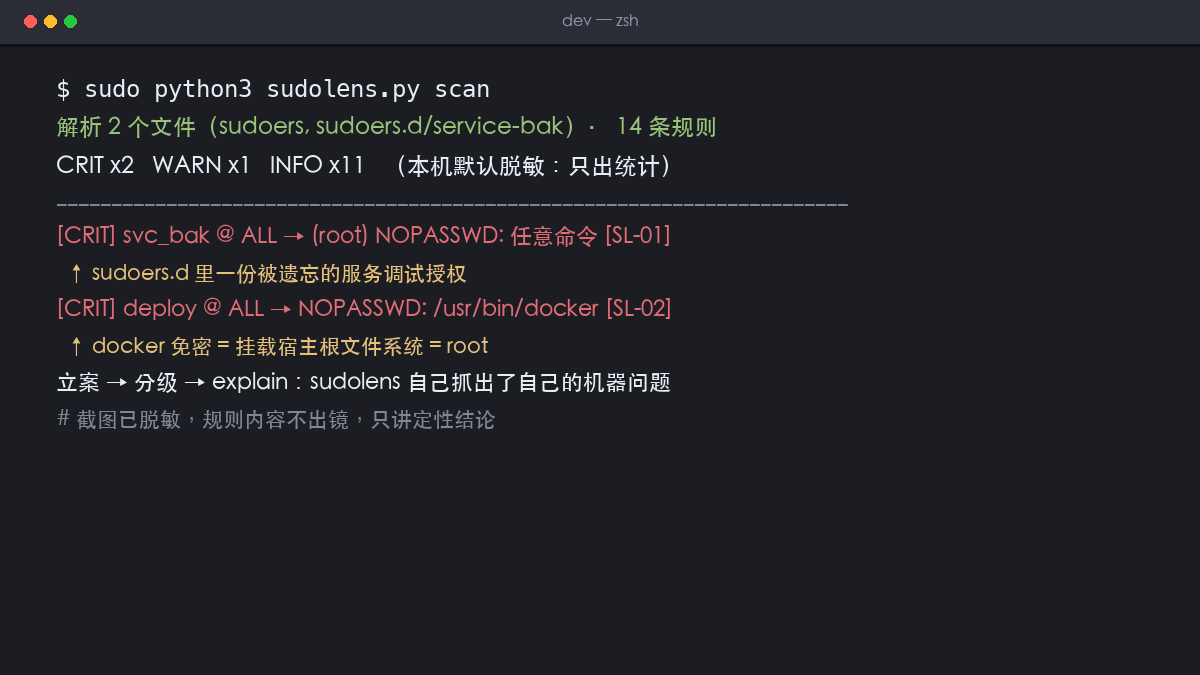
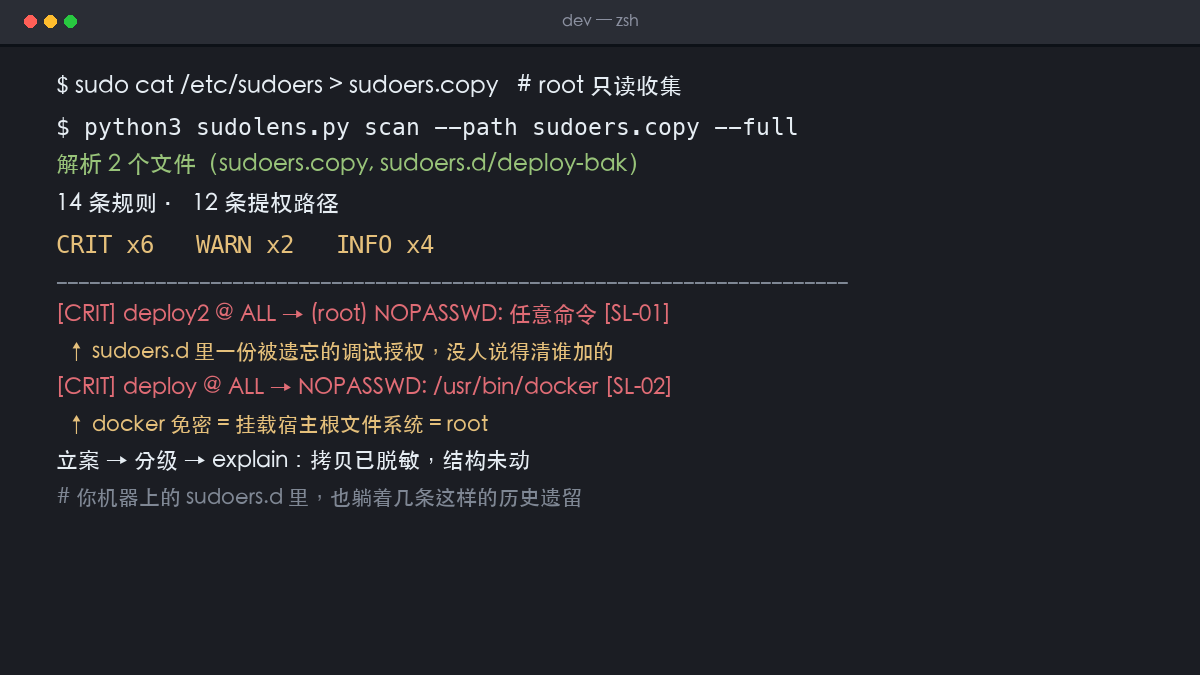
shots: align case figure with real collected-copy run

Changed region(s): [[0.0308, 0.0933, 0.6475, 0.7467]]

diff --git a/make_shots.py b/make_shots.py
@@ -104,18 +104,20 @@ shot("sl-shot-3-explain", [
     ("# 拿去给非技术同事看，一眼能懂谁身上有雷", GREY, 21, False),
 ])
 
-# 4. 本机立案实拍（脱敏：只出统计 + sudoers.d 一条线索定性）
+# 4. 本机立案实拍（真实 run：sudo cat 收集的 sudoers 拷贝，用户名已脱敏）
 shot("sl-shot-4-case", [
-    ("$ sudo python3 sudolens.py scan", WHITE, 24, True),
-    ("解析 2 个文件（sudoers, sudoers.d/service-bak）· 14 条规则", GREEN, 23, False),
-    ("CRIT x2   WARN x1   INFO x11   （本机默认脱敏：只出统计）", WHITE, 23, True),
+    ("$ sudo cat /etc/sudoers > sudoers.copy   # root 只读收集", WHITE, 23, True),
+    ("$ python3 sudolens.py scan --path sudoers.copy --full", WHITE, 23, True),
+    ("解析 2 个文件（sudoers.copy, sudoers.d/deploy-bak）", GREEN, 23, False),
+    ("14 条规则 · 12 条提权路径", WHITE, 23, False),
+    ("CRIT x6   WARN x2   INFO x4", GOLD, 24, True),
     ("------------------------------------------------------------------------", GREY, 19, True),
-    ("[CRIT] svc_bak @ ALL → (root) NOPASSWD: 任意命令 [SL-01]", RED, 22, False),
-    ("  ↑ sudoers.d 里一份被遗忘的服务调试授权", GOLD, 21, False),
+    ("[CRIT] deploy2 @ ALL → (root) NOPASSWD: 任意命令 [SL-01]", RED, 22, False),
+    ("  ↑ sudoers.d 里一份被遗忘的调试授权，没人说得清谁加的", GOLD, 21, False),
     ("[CRIT] deploy @ ALL → NOPASSWD: /usr/bin/docker [SL-02]", RED, 22, False),
     ("  ↑ docker 免密 = 挂载宿主根文件系统 = root", GOLD, 21, False),
-    ("立案 → 分级 → explain：sudolens 自己抓出了自己的机器问题", WHITE, 22, False),
-    ("# 截图已脱敏，规则内容不出镜，只讲定性结论", GREY, 21, False),
+    ("立案 → 分级 → explain：拷贝已脱敏，结构未动", WHITE, 22, False),
+    ("# 你机器上的 sudoers.d 里，也躺着几条这样的历史遗留", GREY, 21, False),
 ])
 
 # 5. selftest 全绿（真实输出）
